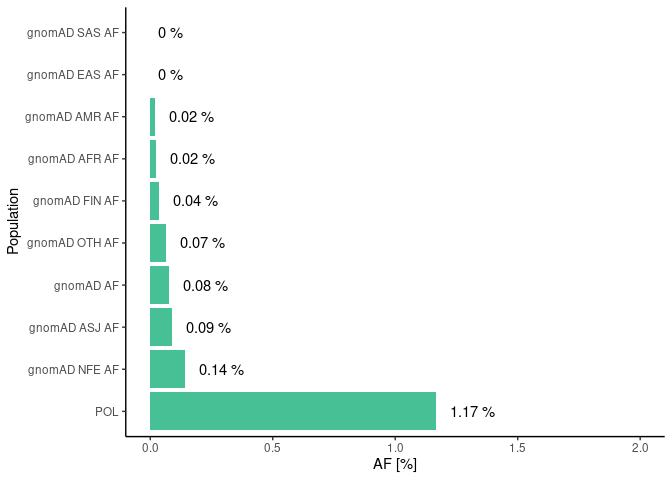
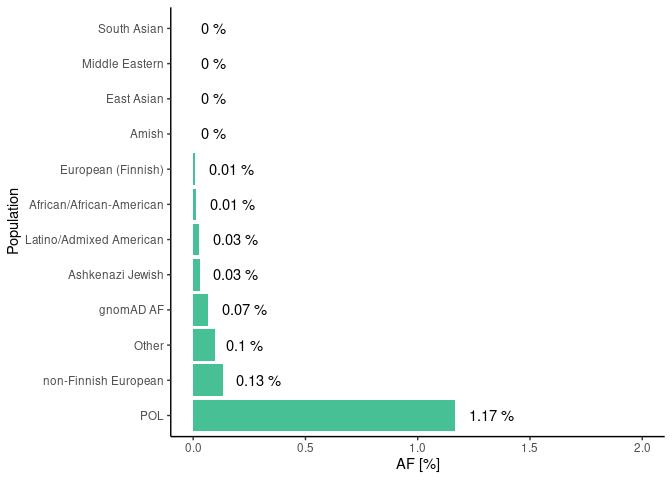
update for gnomad 3.1

diff --git a/variants_af/variants_af.md b/variants_af/variants_af.md
@@ -97,16 +97,20 @@ variants with Clinvar stars
 
 ![](variants_af_files/figure-gfm/DHCR7-1.jpeg)<!-- -->
 
-## CFTR deletions
-
-![](variants_af_files/figure-gfm/CFTR-1.jpeg)<!-- -->
-
-| Uploaded\_variation       |    PL\_AF | gnomAD\_AF | gnomAD\_AFR\_AF | gnomAD\_AMR\_AF | gnomAD\_ASJ\_AF | gnomAD\_EAS\_AF | gnomAD\_FIN\_AF | gnomAD\_NFE\_AF | gnomAD\_OTH\_AF | gnomAD\_SAS\_AF |
-|:--------------------------|----------:|-----------:|----------------:|----------------:|----------------:|----------------:|----------------:|----------------:|----------------:|----------------:|
-| chr7\_117536514\_AGATT\_A | 0.1935310 |  0.2696000 |       0.2159000 |        0.384300 |        0.170500 |       0.4153000 |        0.300100 |       0.1875000 |        0.245500 |       0.3452000 |
-| chr7\_117548606\_ATG\_A   | 0.2500000 |  0.2222000 |       0.4383000 |        0.144200 |        0.159400 |       0.0236600 |        0.260300 |       0.2703000 |        0.222900 |       0.1627000 |
-| chr7\_117548606\_ATGTG\_A | 0.0005519 |  0.0013450 |       0.0056910 |        0.001099 |        0.000312 |       0.0000694 |        0.001146 |       0.0014410 |        0.001383 |       0.0003595 |
-| chr7\_117548628\_GTT\_G   | 0.0282818 |  0.0223100 |       0.0669800 |        0.011230 |        0.017300 |       0.0014670 |        0.028040 |       0.0283400 |        0.022420 |       0.0063610 |
-| chr7\_117548834\_TG\_T    | 0.0005308 |  0.0000085 |       0.0000000 |        0.000000 |        0.000000 |       0.0000000 |        0.000000 |       0.0000191 |        0.000000 |       0.0000000 |
-| chr7\_117559590\_ATCT\_A  | 0.0095440 |  0.0070680 |       0.0029540 |        0.003673 |        0.005557 |       0.0000000 |        0.002222 |       0.0122700 |        0.006856 |       0.0019930 |
-| chr7\_117666871\_CT\_C    | 0.0005302 |  0.0009436 |       0.0000617 |        0.000116 |        0.019400 |       0.0000000 |        0.000000 |       0.0002149 |        0.001802 |       0.0000000 |
+<!-- ## CFTR deletions -->
+<!-- ```{r CFTR, echo=FALSE} -->
+<!-- muko <- read.table('CFTR.tsv',header = T,sep='\t') %>% -->
+<!--   select(Uploaded_variation,PL_AF, starts_with('gnomAD_'),VARIANT_CLASS) -->
+<!-- dels <- muko %>% filter(VARIANT_CLASS == 'deletion', gnomAD_AF != '-')  -->
+<!-- dels[,3:11] <- dels[,3:11] %>% mutate_if(is.factor,as.character)  -->
+<!-- dels[,3:11] <- dels[,3:11] %>% mutate_if(is.character,as.numeric)  -->
+<!-- dels %>% select(-VARIANT_CLASS)  %>% -->
+<!--   pivot_longer(-Uploaded_variation,names_to = 'pop',values_to = 'AF') %>% -->
+<!--   ggplot(aes(x=AF*100,y=reorder(pop,-AF),fill=Uploaded_variation)) + -->
+<!--   geom_bar(stat = 'identity',position = 'fill') + -->
+<!--   scale_fill_viridis(discrete = T, 'Variant') + -->
+<!--   theme_classic() + -->
+<!--   ylab('Population') + -->
+<!--   xlab('AF [%]')  -->
+<!-- kable(dels %>% select(-VARIANT_CLASS)) -->
+<!-- ``` -->
